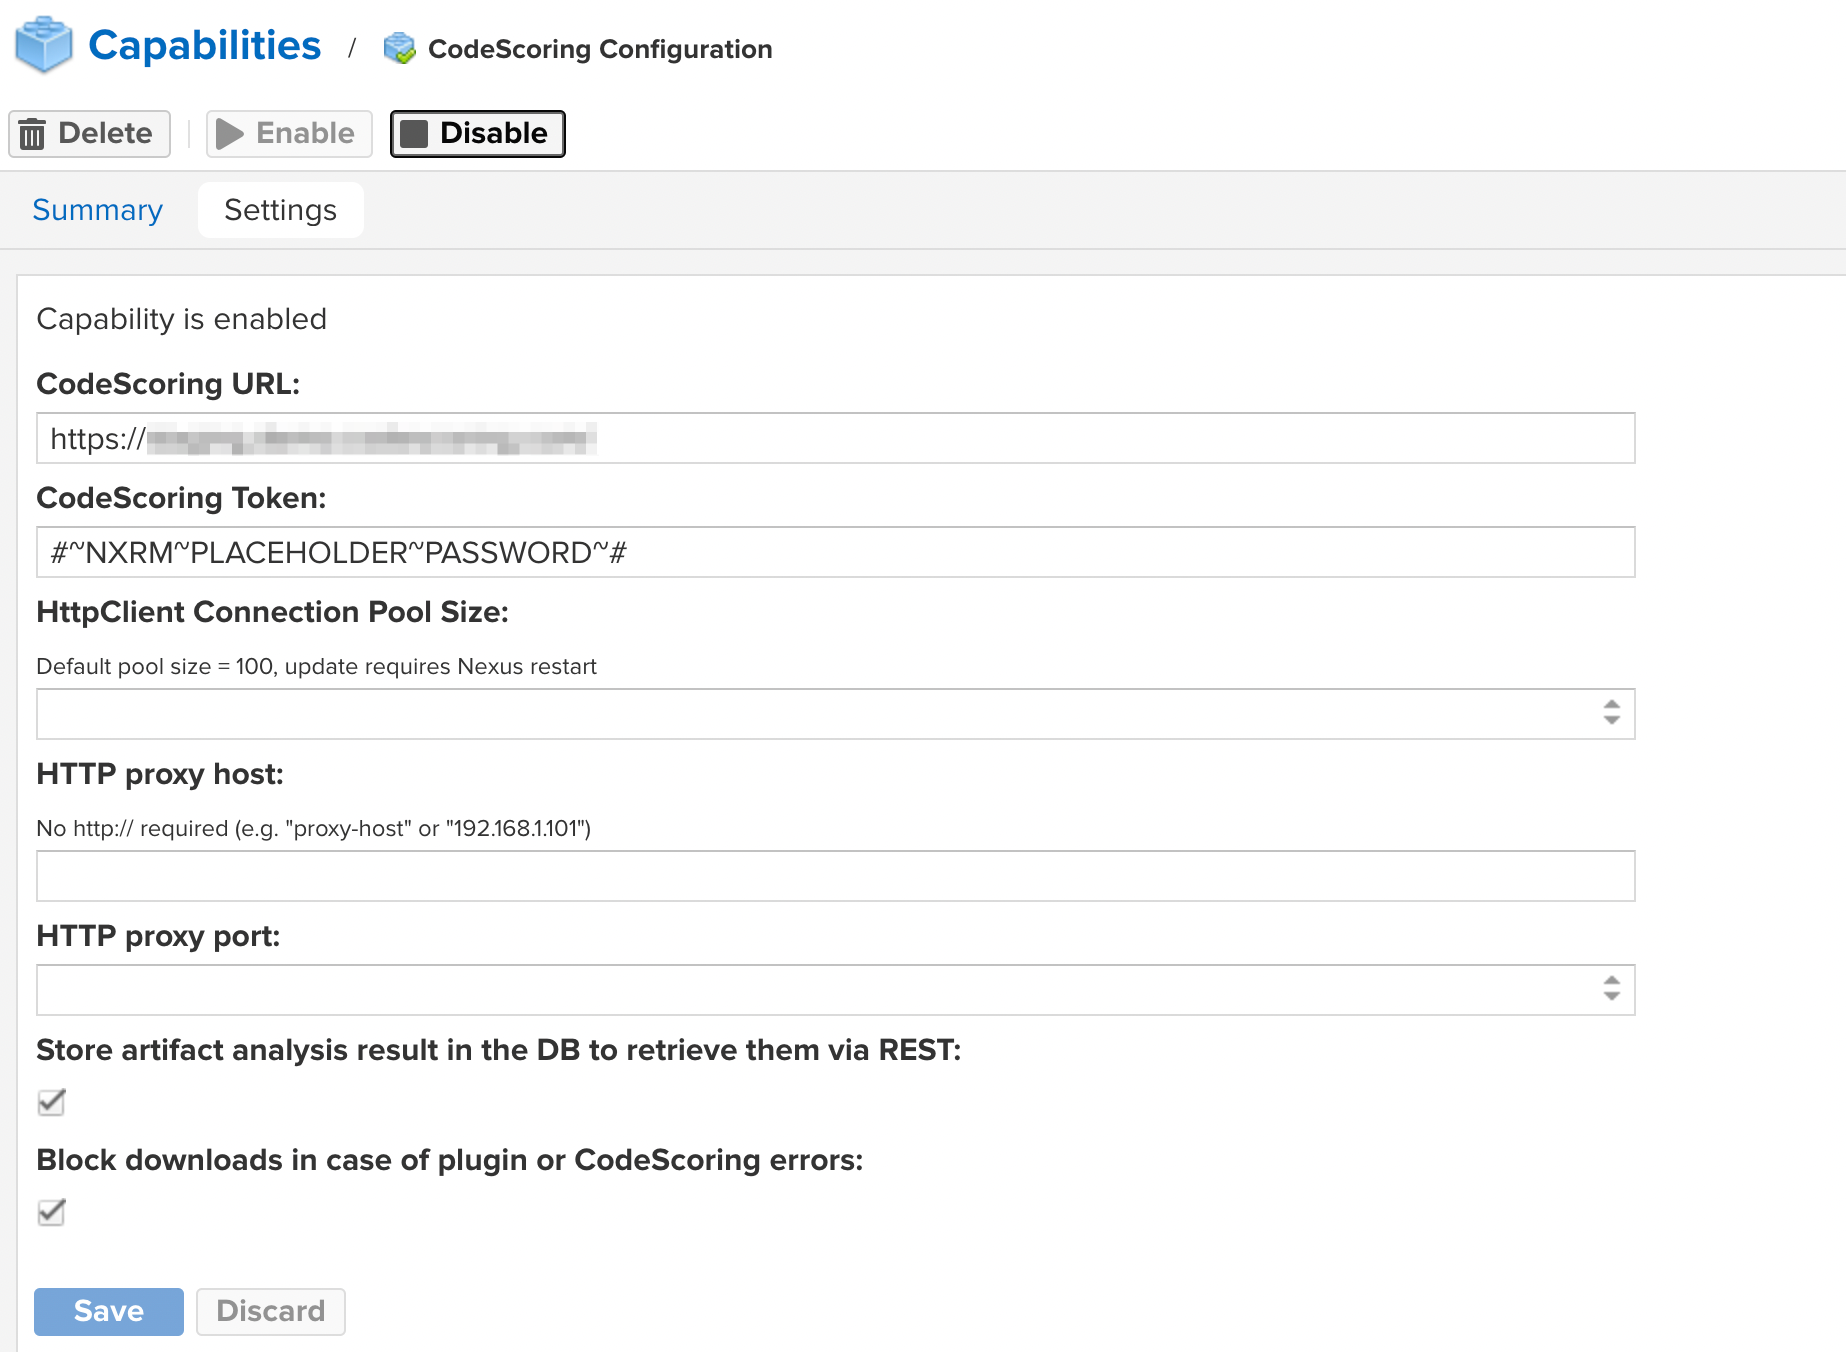
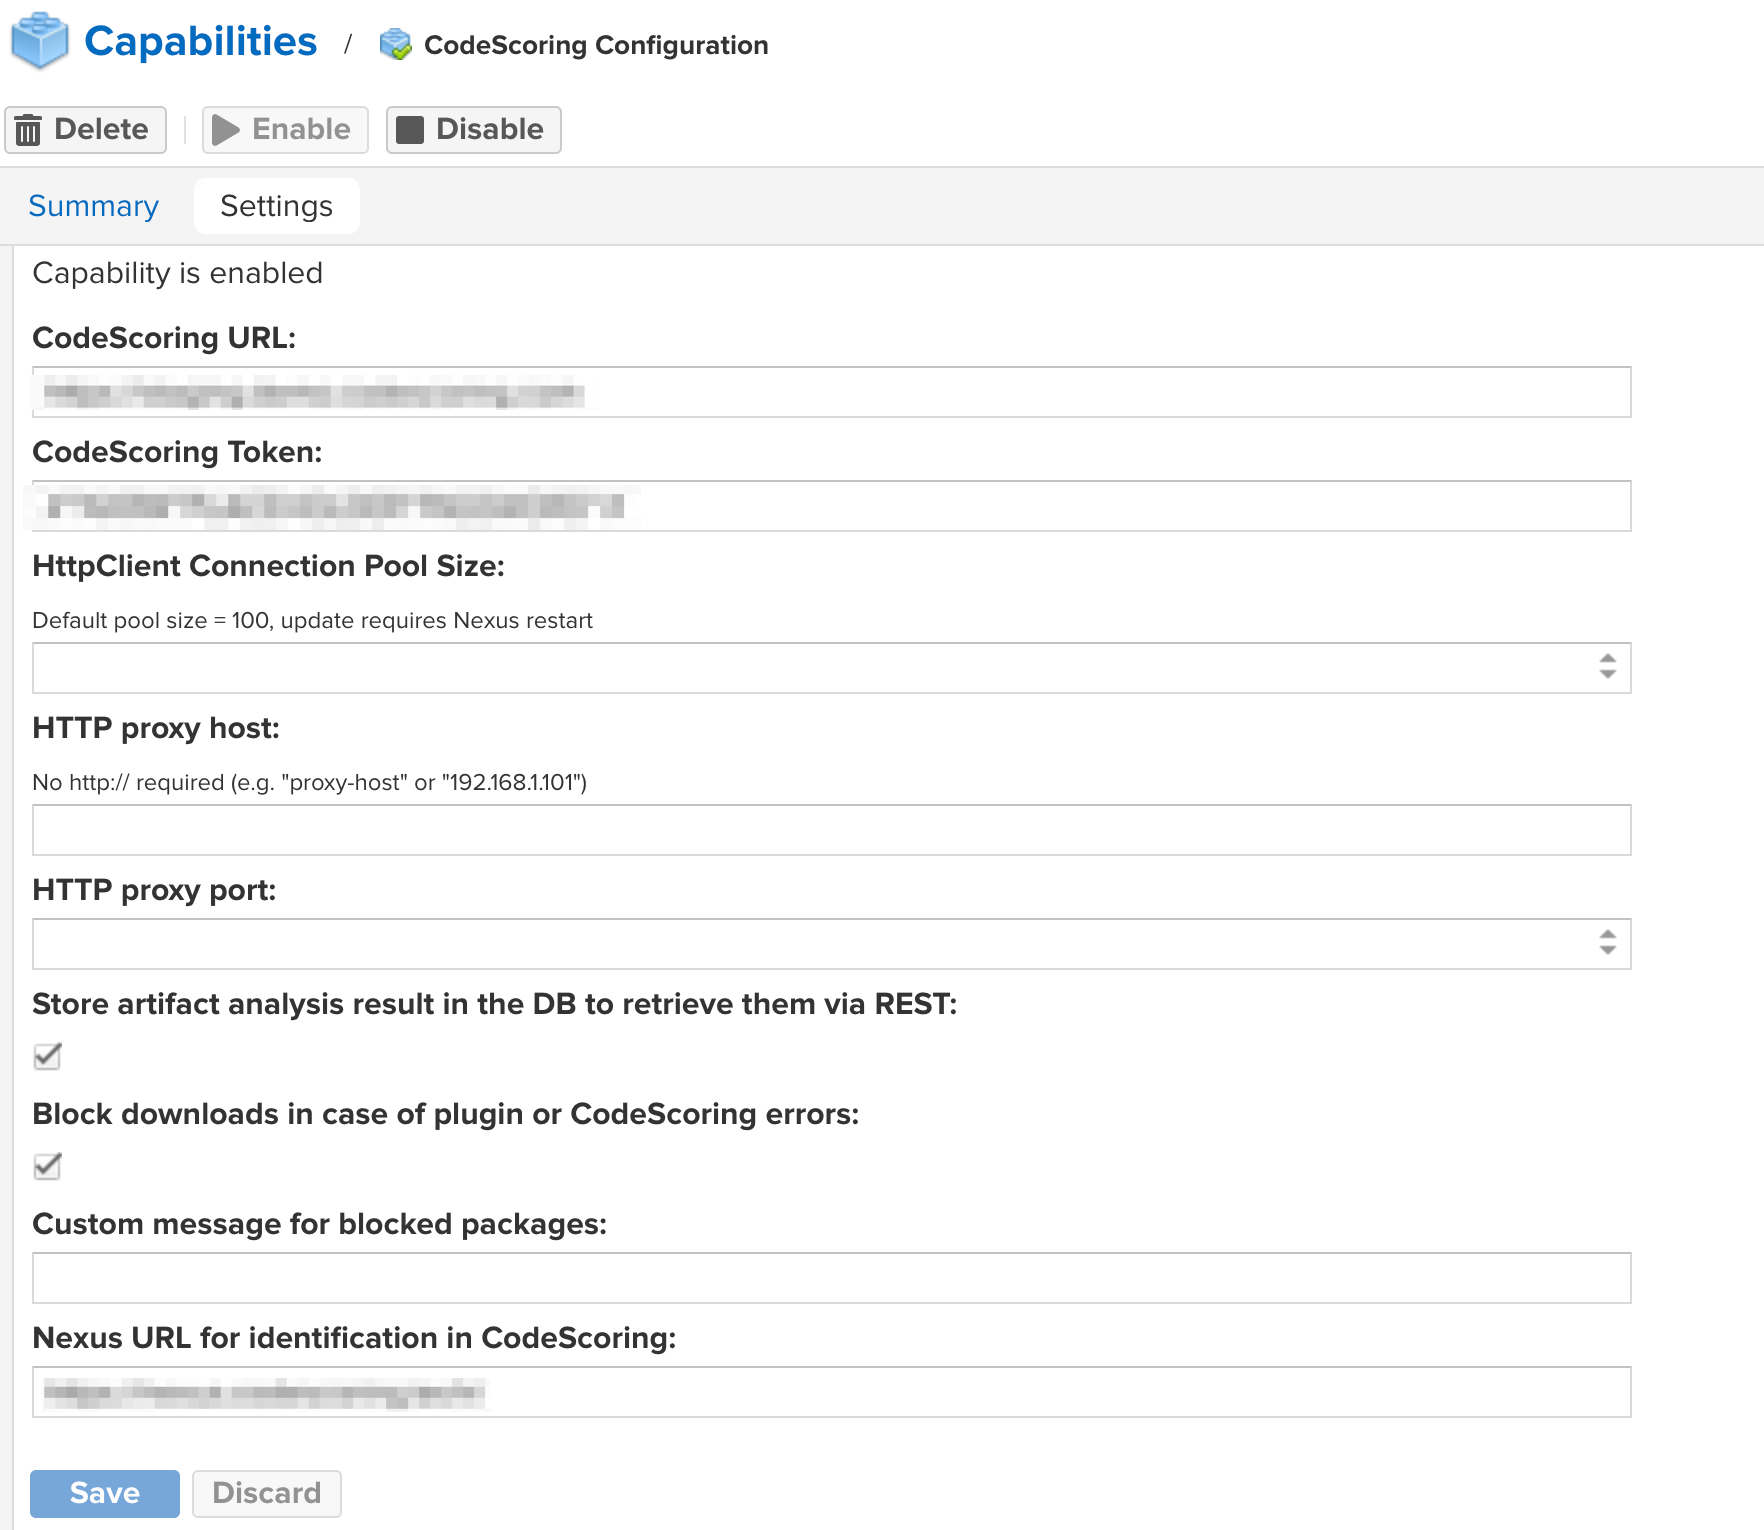
updated nexus plugin variables and screenshots

Changed region(s): [[0.0, 0.0, 0.5612, 0.9941], [0.9042, 0.5902, 0.9354, 0.6213], [0.8418, 0.497, 0.873, 0.5281]]

diff --git a/docs/osa/nexus_osa.md b/docs/osa/nexus_osa.md
@@ -2,19 +2,19 @@
 hide:
   - footer
 ---
-# CodeScoring NXRM OSA
+# CodeScoring Nexus OSA
 
 ## Установка плагина
 
-Плагин **CodeScoring NXRM OSA** поставляется в виде JAR-файла и поддерживает версии Nexus Repository Manager **3.39.0-01** и выше.
+Плагин **CodeScoring Nexus OSA** поставляется в виде JAR-файла и поддерживает версии Nexus Repository Manager **3.39.0-01** и выше.
 
-Для добавления плагина в **NXRM** необходимо:
+Для добавления плагина в **Nexus Repository Manager** необходимо:
 
 1. Скопировать полученный от вендора файл `nexus-codescoring-plugin.jar` в директорию `/opt/sonatype/nexus/deploy`:
 ```bash
 cp nexus-codescoring-plugin.jar /opt/sonatype/nexus/deploy/nexus-codescoring-plugin.jar
 ```
-Если **NXRM** запущен в Docker-контейнере:
+Если **Nexus Repository Manager** запущен в Docker-контейнере:
 ```bash
 docker cp nexus-codescoring-plugin.jar nexus:/opt/sonatype/nexus/deploy/nexus-codescoring-plugin.jar
 ```
@@ -22,22 +22,23 @@ docker cp nexus-codescoring-plugin.jar nexus:/opt/sonatype/nexus/deploy/nexus-co
 ```bash
 chown nexus:nexus /opt/sonatype/nexus/deploy/nexus-codescoring-plugin.jar
 ```
-Если **NXRM** запущен в Docker-контейнере:
+Если **Nexus Repository Manager** запущен в Docker-контейнере:
 ```bash
 docker exec -it -u 0 nexus chown nexus:nexus /opt/sonatype/nexus/deploy/nexus-codescoring-plugin.jar
 ```
 
-После выполненных операций, необходимо произвести перезапуск **NXRM**.
+После выполненных операций, необходимо произвести перезапуск Nexus.
 
 ## Настройка плагина
 
-Для применения плагина **CodeScoring OSA** в дальнейшей работе, необходимо использовать механизм **Capability**, предоставляемый **NXRM**. **Capability** – это набор API и компонентов UI для встраивания в **NXRM**, позволяющий расширять его функциональность.
+Для применения плагина **CodeScoring OSA** в дальнейшей работе, необходимо использовать механизм **Capability**, предоставляемый **Nexus Repository Manager**. **Capability** – это набор API и компонентов UI для встраивания в **Nexus**, позволяющий расширять его функциональность.
 
-Плагин **CodeScoring OSA** предоставляет три новые **Capability**:
+Плагин **CodeScoring OSA** предоставляет четыре новые **Capability**:
 
-- **CodeScoring Configuration** — настройка взаимодействия с **on-premise** инсталляцией **CodeScoring**.
-- **CodeScoring Scan** — настройка сканирования для отдельно выбранного прокси-репозитория.
-- **CodeScoring Docker Repository Scan** – настройка сканирования для hosted docker репозитория.
+- **CodeScoring Configuration** — настройка взаимодействия с **on-premise** инсталляцией **CodeScoring**;
+- **CodeScoring Scan** — настройка сканирования для отдельно выбранного прокси-репозитория;
+- **CodeScoring Docker Repository Scan** – настройка сканирования для отдельно выбранного hosted docker репозитория;
+- **CodeScoring All Repositories Scan** – настройка сканирования для всех репозиториев.
 
 После установки плагина **CodeScoring OSA** в разделе `System -> Capabilities` появится возможность создания **Capability** через элемент (`+ Create capability`) интерфейса.
 
@@ -50,10 +51,12 @@ docker exec -it -u 0 nexus chown nexus:nexus /opt/sonatype/nexus/deploy/nexus-co
 - **CodeScoring Token** – ключ для авторизации вызовов API (*Создается из CodeScoring раздела `Profile -> Home`*);
 - **CodeScoring URL** – адрес **on-premise** инсталляции **CodeScoring**;
 - **HttpClient Connection Pool Size** – количество доступных соединений. Параметр позволяет управлять количеством параллельных запросов, чтобы ускорить сканирование;
-- **HTTP Proxy Host** – адрес прокси-сервера. Используется в случае, если нет возможности наладить прямое соединение между NXRM и CodeScoring;
+- **HTTP Proxy Host** – адрес прокси-сервера. Используется в случае, если нет возможности наладить прямое соединение между Nexus и CodeScoring;
 - **HTTP Proxy Port** – порт прокси-сервера;
 - **Store artifact analysis in the DB to retrieve them via REST** – сохранение результатов сканирования артифакта в базе Nexus с возможностью извлечения из Nexus API;
 - **Block downloads in case of plugin or CodeScoring errors** – блокировка загрузки компонента при наличии ошибок от плагина или CodeScoring API.
+- **Custom message for blocked packages** – сообщение для пользователя при блокировке компонентов;
+- **Nexus URL for identification in CodeScoring** – адрес Nexus Repository Manager с протоколом для отображения результатов на инсталляции.
 
 ![CodeScoring capability config settings example](/assets/img/osa/capability_config_settings_example.png)
 
@@ -61,11 +64,10 @@ docker exec -it -u 0 nexus chown nexus:nexus /opt/sonatype/nexus/deploy/nexus-co
 
 ### CodeScoring Proxy Repository Scan
 
-Расширение позволяет установить функцию экранирования на выбранный прокси репозиторий со следующими параметрами:
+Расширение позволяет установить проверку компонентов на выбранный прокси репозиторий со следующими параметрами:
 
 - **Repository** – выбор репозитория, для которого будет применена функция экранирования;
 - **Security violation response status** – код ошибки, возвращаемый при срабатывании политик безопасности;
-- **Run manual scan on save** – запускает принудительное сканирование компонентов относящихся к выбранному прокси репозиторию при нажатии кнопки save;
 - **Delete blocked by policy component from repository** – принудительное удаление блокируемых компонентов из репозитория (*создание "стерильного" репозитория*);
 - **Select capability work mode** – режим работы плагина. 
 
@@ -73,16 +75,30 @@ docker exec -it -u 0 nexus chown nexus:nexus /opt/sonatype/nexus/deploy/nexus-co
 
 ### CodeScoring Docker Repository Scan
 
-Расширение позволяет установить функцию экранирования на выбранный hosted или proxy docker репозиторий со следующими параметрами:
+Расширение позволяет установить проверку компонентов на выбранный hosted или proxy docker репозиторий со следующими параметрами:
 
 - **Repository** – выбор репозитория, для которого будет применена функция экранирования;
 - **Security violation response status** – код ошибки, возвращаемый при срабатывании политик безопасности;
 - **This user skips container image scan** – имя пользователя, для которого не применяется сканирование образов. Используется при загрузке и проверке компонентов консольным агентом;
 - **Host and port used for CodeScoring to download container image to scan** – адрес (без указания протокола) и порт, через которые будут загружаться образы для сканирования. Используется для связи Nexus с репозиторием через Docker;
 - **Block not scanned images** – блокировка загрузки образов, которые не были просканированы;
-- **Select capability work mode** – режим работы плагина. Режимы работы описаны в секции ниже.
+- **Select capability work mode** – режим работы плагина. Режимы работы описаны в секции ниже;
+- **Append repository name to image name for Docker repositories** – добавление названия репозитория в URL (например: `nexus.domain.com` -> `nexus.domain.com/repoName`).
 
 ![CodeScoring capability docker repository example](/assets/img/osa/capability_docker_settings_example.png)
+
+### CodeScoring All Repositories Scan
+
+Расширение позволяет установить проверку компонентов на все репозитории в рамках Nexus Repository Manager со следующими параметрами:
+
+- **List of comma separated repositories to ignore** – список репозиториев, которые не будут сканироваться;
+- **Security violation response status** – код ошибки, возвращаемый при срабатывании политик безопасности;
+- **This user skips container image scan** – имя пользователя, для которого не применяется сканирование образов. Используется при загрузке и проверке компонентов консольным агентом;
+- **Host and port used for CodeScoring to download container image to scan** – адрес (без указания протокола) и порт, через которые будут загружаться образы для сканирования. Используется для связи Nexus с репозиторием через Docker;
+- **Select capability work mode** – режим работы плагина. Режимы работы описаны в секции ниже;
+- **Append repository name to image name for Docker repositories** – добавление названия репозитория в URL (например: `nexus.domain.com` -> `nexus.domain.com/repoName`).
+
+![CodeScoring capability all repositories scan](/assets/img/osa/capability_all_repositories_settings_example.png)
 
 ### Настройка режима работы плагина
 
@@ -100,7 +116,7 @@ docker exec -it -u 0 nexus chown nexus:nexus /opt/sonatype/nexus/deploy/nexus-co
 
 Для настройки логирования событий плагина необходимо зайти в раздел `Support -> Logging` и добавить логгер с названием **ru.codescoring** и уровнем логирования **DEBUG**.
 
-![NXRM logs](/assets/img/osa/nxrm_logs.png)
+![Nexus logs](/assets/img/osa/nxrm_logs.png)
 
 Результаты логирования событий доступны в разделе `Support -> Logs`.
 
